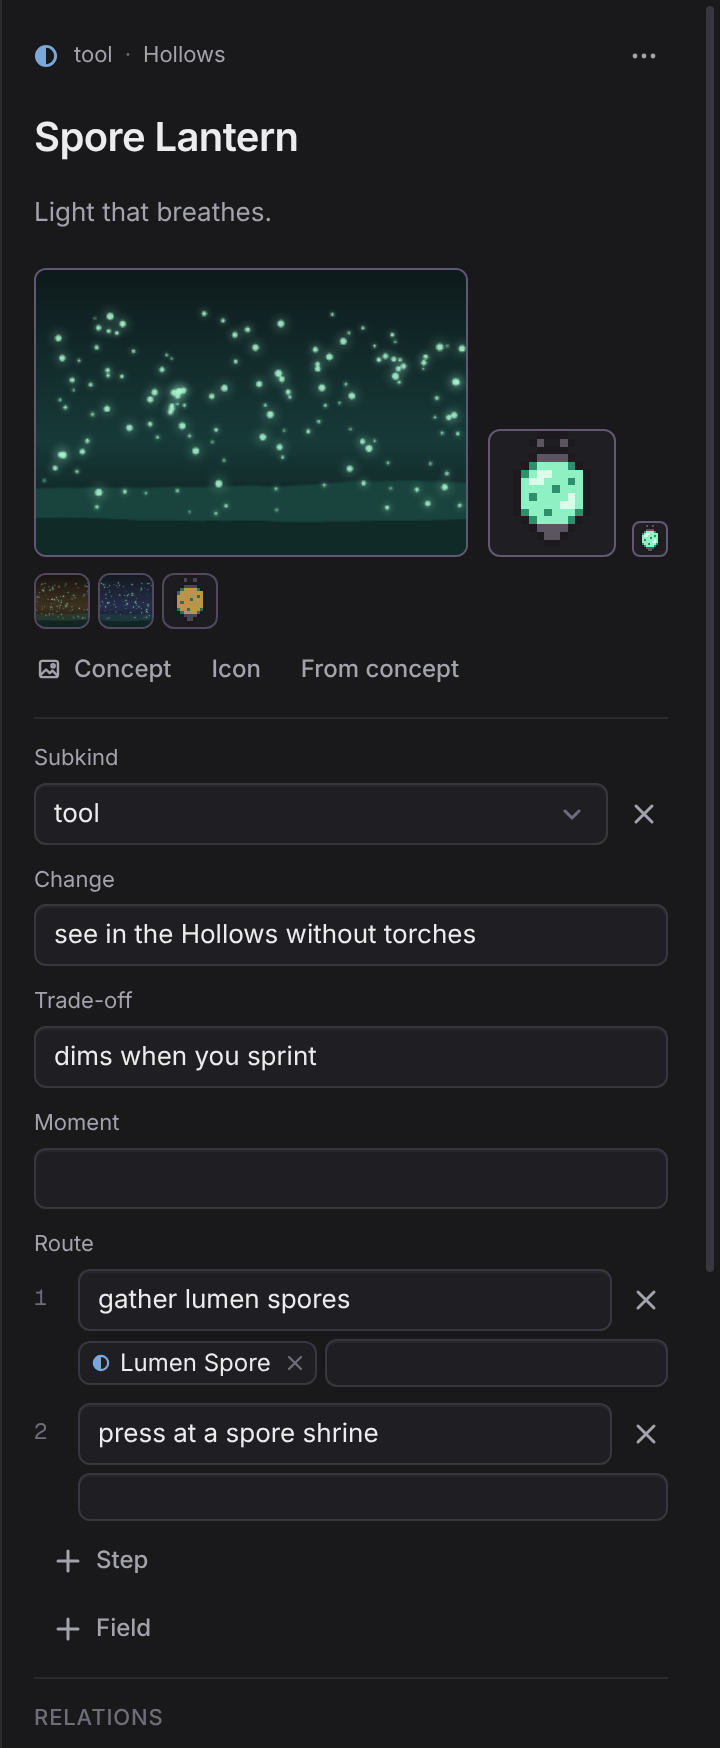
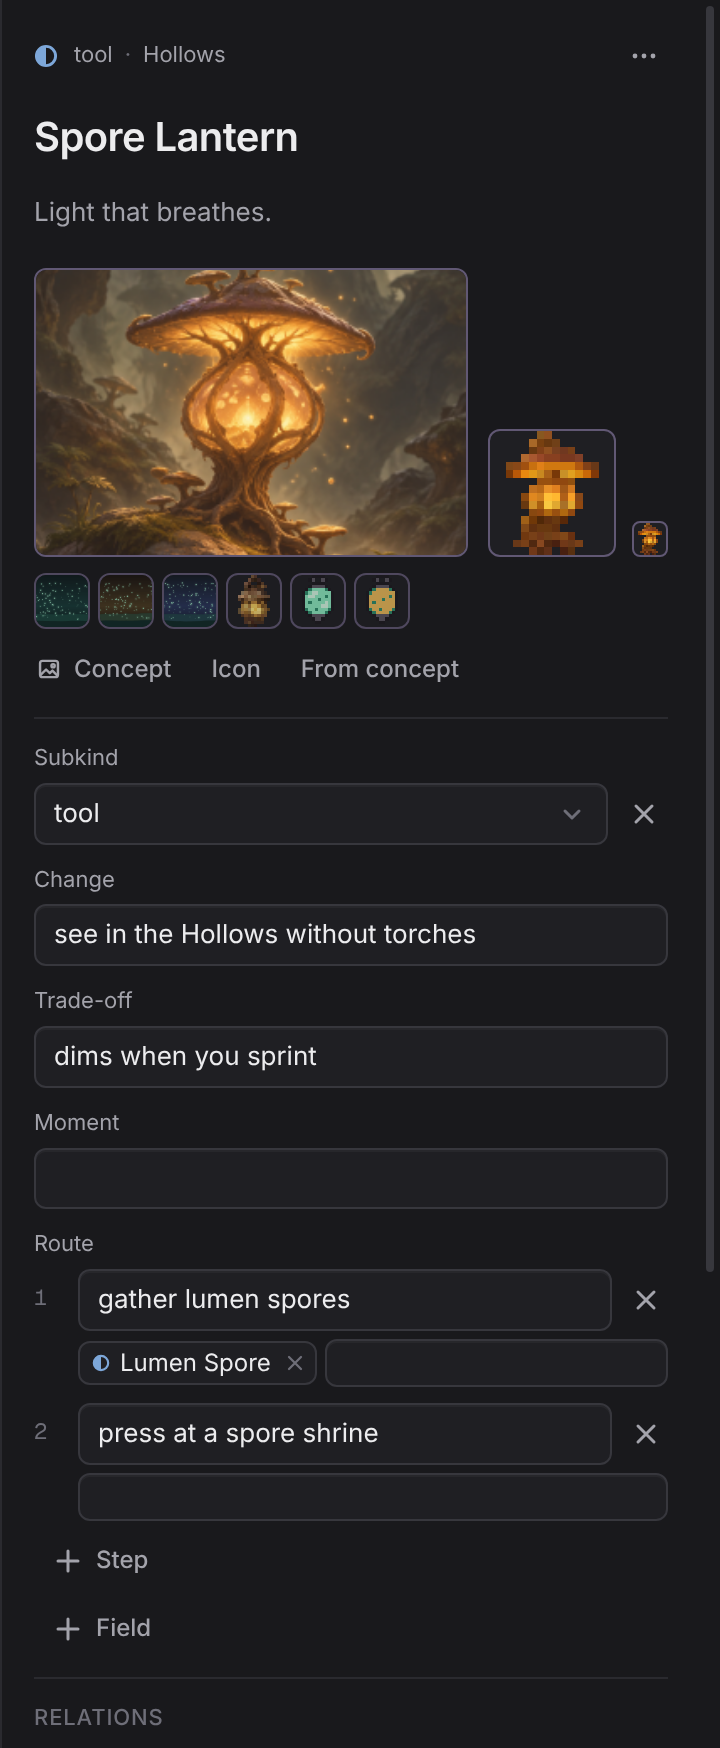
Images UI: screens use images-core's recorded real images; range reading readable over art

Changed region(s): [[0.0306, 0.1545, 0.6722, 0.3707], [0.7028, 0.2471, 0.825, 0.3398], [0.8861, 0.278, 0.9167, 0.3398]]

diff --git a/e2e/art.ts b/e2e/art.ts
@@ -1,4 +1,5 @@
-import { mkdirSync, writeFileSync } from 'node:fs';
+import { existsSync, mkdirSync, readFileSync, writeFileSync } from 'node:fs';
+import { fileURLToPath } from 'node:url';
 import path from 'node:path';
 import type { ImageMeta, WorldImages } from '@core/images/model';
 import { imagePaths } from '@core/images/model';
@@ -6,9 +7,9 @@ import type { World } from '@core/model/world';
 import { encodePng, sha256, type Rgba } from '../src/main/images/png';
 
 /**
- * Stand-in art for the canonical screens (docs/screens/): painted here, not
- * generated, so the screens show what carbon does with real concept art and
- * icons without a paid call. Concepts are layered landscapes per biome;
+ * Art for the canonical screens (docs/screens/): images-core's recorded real
+ * calls where there is one (fixtures/images), else stand-in art painted here,
+ * so the screens need no paid call. Concepts are layered landscapes per biome;
  * icons are 16×16 sprites in Infinite's item style. Everything is
  * deterministic (seeded), so the screens are reproducible.
  */
@@ -127,28 +128,6 @@ const SCENES: Record<string, Scene> = {
       { color: '#e0e6f0', base: 0.9, amp: 0.06 },
     ],
     glow: { color: '#ffffff', count: 30, size: 3, band: [0.1, 0.6] },
-  },
-  'mossed-hollows': {
-    sky: ['#101a14', '#2c4a34', '#6a8a5a'],
-    haze: 0.5,
-    layers: [
-      { color: '#2a4630', base: 0.22, amp: 0.14, top: true, spiky: 0.3 },
-      { color: '#3e6a40', base: 0.66, amp: 0.16 },
-      { color: '#2e5432', base: 0.78, amp: 0.1 },
-      { color: '#1c3a22', base: 0.9, amp: 0.06 },
-    ],
-    glow: { color: '#d8f0a0', count: 40, size: 2.5, band: [0.3, 0.8] },
-  },
-  'painted-plains': {
-    sky: ['#4a3a5a', '#c08a7a', '#f0c890'],
-    haze: 0.5,
-    sun: { x: 0.6, y: 0.5, r: 0.06, color: '#fff0c8' },
-    layers: [
-      { color: '#b07a6a', base: 0.6, amp: 0.08 },
-      { color: '#c89a5a', base: 0.7, amp: 0.05 },
-      { color: '#a8604a', base: 0.8, amp: 0.04 },
-      { color: '#7a4a3a', base: 0.9, amp: 0.03 },
-    ],
   },
   'spore-lantern': {
     sky: ['#0e1a1c', '#163a38', '#0b1617'],
@@ -337,51 +316,6 @@ function sprite(id: string): Rgba | null {
   return { width: 16, height: 16, data };
 }
 
-/** Two more Hollows biomes, so the Climate screen shows a full plane. */
-export function withHollowsBiomes(world: World): World {
-  const base = world.entities['glowmoss-caverns'];
-  if (!base) return world;
-  const biome = (
-    id: string,
-    name: string,
-    identity: string,
-    t: [number, number],
-    m: [number, number],
-  ) => ({
-    ...base,
-    id,
-    name,
-    identity,
-    state: 'idea' as const,
-    ai_fields: [],
-    relations: [],
-    fields: {
-      ...base.fields,
-      climate: { temperature: { min: t[0], max: t[1] }, moisture: { min: m[0], max: m[1] } },
-    },
-  });
-  return {
-    ...world,
-    entities: {
-      ...world.entities,
-      'mossed-hollows': biome(
-        'mossed-hollows',
-        'Mossed Hollows',
-        'Cold hollows where moss drinks the dark.',
-        [0.03, 0.26],
-        [0.32, 0.72],
-      ),
-      'painted-plains': biome(
-        'painted-plains',
-        'Painted Plains',
-        'Warm silt in bands of rust and ochre.',
-        [0.6, 0.97],
-        [0.42, 0.78],
-      ),
-    },
-  };
-}
-
 /** A ULID-shaped id from a counter (Crockford base32, sortable). */
 const ulid = (n: number): string => `01JC${String(n).padStart(22, '0')}`;
 
@@ -393,8 +327,14 @@ const ulid = (n: number): string => `01JC${String(n).padStart(22, '0')}`;
 export function withArt(world: World, dir: string): World {
   const images: WorldImages = {};
   let n = 1;
-  const add = (entity: string, kind: 'concept' | 'icon', img: Rgba, prompt: string): void => {
-    const bytes = encodePng(img);
+  const add = (
+    entity: string,
+    kind: 'concept' | 'icon',
+    img: Rgba | { bytes: Uint8Array; width: number; height: number; model: string },
+    prompt: string,
+  ): void => {
+    const real = 'bytes' in img;
+    const bytes = real ? img.bytes : encodePng(img);
     const id = ulid(n++);
     const file = path.join(dir, imagePaths(entity, id).png);
     mkdirSync(path.dirname(file), { recursive: true });
@@ -403,7 +343,15 @@ export function withArt(world: World, dir: string): World {
       id,
       entity,
       kind,
-      origin: { by: 'fake', prompt, size: kind === 'icon' ? '1024x1024' : '1536x1024' },
+      origin: real
+        ? {
+            by: 'openai',
+            model: img.model,
+            quality: 'low',
+            size: kind === 'icon' || img.width === img.height ? '1024x1024' : '1536x1024',
+            prompt,
+          }
+        : { by: 'fake', prompt, size: kind === 'icon' ? '1024x1024' : '1536x1024' },
       created: '2026-11-05T12:00:00.000Z',
       width: img.width,
       height: img.height,
@@ -450,5 +398,25 @@ export function withArt(world: World, dir: string): World {
     if (s && world.entities[id])
       add(id, 'icon', s, `${world.entities[id].name}, as a game item icon`);
   }
+  // images-core's recorded real calls (fixtures/images, low quality): where an
+  // entity has one, it is the chosen image, and the painted one an earlier version.
+  for (const [entity, kind, file, model] of REAL) {
+    const abs = path.join(FIXTURES, `${file}.png`);
+    if (!world.entities[entity] || !existsSync(abs)) continue;
+    const bytes = new Uint8Array(readFileSync(abs));
+    const dim = { width: bytes[19]! + (bytes[18]! << 8), height: bytes[23]! + (bytes[22]! << 8) };
+    add(entity, kind, { bytes, model, ...dim }, `${world.entities[entity].name} (recorded)`);
+  }
   return { ...world, images };
 }
+
+const FIXTURES = path.join(path.dirname(fileURLToPath(import.meta.url)), '../fixtures/images');
+const REAL: [string, 'concept' | 'icon', string, string][] = [
+  ['spore-lantern', 'icon', 'spore-lantern-icon-flare', 'gpt-image-2.6-flare'],
+  ['glowmoss-caverns', 'concept', 'glowmoss-caverns-concept-sunburst', 'gpt-image-2.6-sunburst'],
+  ['cloud-reef', 'concept', 'cloud-reef-concept-flare', 'gpt-image-2.6-flare'],
+  ['spore-lantern', 'concept', 'spore-lantern-concept-flare', 'gpt-image-2.6-flare'],
+  ['spore-lantern', 'icon', 'spore-lantern-icon-edit-flare', 'gpt-image-2.6-flare'],
+  ['cinder-sting', 'icon', 'cinder-sting-icon-sunburst', 'gpt-image-2.6-sunburst'],
+  ['cloud-anklet', 'icon', 'cloud-anklet-icon-flare', 'gpt-image-2.6-flare'],
+];

diff --git a/e2e/screens.spec.ts b/e2e/screens.spec.ts
@@ -6,7 +6,7 @@ import { cmd } from '@core/commands/registry';
 import { stressWorld } from '../src/core/testing/stress';
 import { writeWorldDir } from '../src/main/store/world-dir';
 import { sampleWorld } from '../src/core/testing/sample';
-import { withArt, withHollowsBiomes } from './art';
+import { withArt } from './art';
 import { launchCarbon, SCREEN_SCALE, type CarbonApp } from './harness';
 
 /**
@@ -224,7 +224,7 @@ test('the Column over 2,000 entities', async () => {
 test('images: Climate panels filled by concept art, the Bench strip, the confirm step, a batch', async () => {
   test.setTimeout(120_000);
   const tmp = mkdtempSync(path.join(os.tmpdir(), 'carbon-screens-art-'));
-  const art = withArt(withHollowsBiomes(sampleWorld()), tmp);
+  const art = withArt(sampleWorld(), tmp);
   await writeWorldDir(tmp, art);
   const c = await launchCarbon({ worldDir: tmp, scale: SCREEN_SCALE });
   const p = c.page;
@@ -238,7 +238,7 @@ test('images: Climate panels filled by concept art, the Bench strip, the confirm
     await c.gotoView('climate', '2');
     await p.getByRole('tab', { name: 'Hollows' }).click();
     const region = (id: string) => p.locator(`[data-testid="climate-region"][data-entity="${id}"]`);
-    for (const id of ['glowmoss-caverns', 'ash-vents', 'mossed-hollows', 'painted-plains'])
+    for (const id of ['glowmoss-caverns', 'ash-vents'])
       await expect(region(id).getByTestId('climate-art')).toHaveAttribute('data-loaded', '');
     await region('glowmoss-caverns').click();
     const plane = (await p.getByTestId('climate-plane').boundingBox())!;
@@ -255,7 +255,7 @@ test('images: Climate panels filled by concept art, the Bench strip, the confirm
     await p.keyboard.press('Enter');
     await expect(p.getByTestId('bench-entity')).toHaveAttribute('data-entity', 'spore-lantern');
     await p.evaluate(() => (document.activeElement as HTMLElement | null)?.blur());
-    await expect(p.getByTestId('bench-version')).toHaveCount(3);
+    await expect(p.getByTestId('bench-version')).toHaveCount(6);
     await calm();
     await c.screenshot('bench-images', { docs: true, element: p.getByTestId('bench') });
 

diff --git a/src/renderer/views/climate/climate.css b/src/renderer/views/climate/climate.css
@@ -510,3 +510,9 @@
 .climate-region-head {
   padding-right: 18px;
 }
+.climate-region-art .climate-region-range {
+  padding: 1px 5px;
+  border-radius: 4px;
+  background: color-mix(in srgb, var(--bg) 72%, transparent);
+  color: var(--text);
+}
